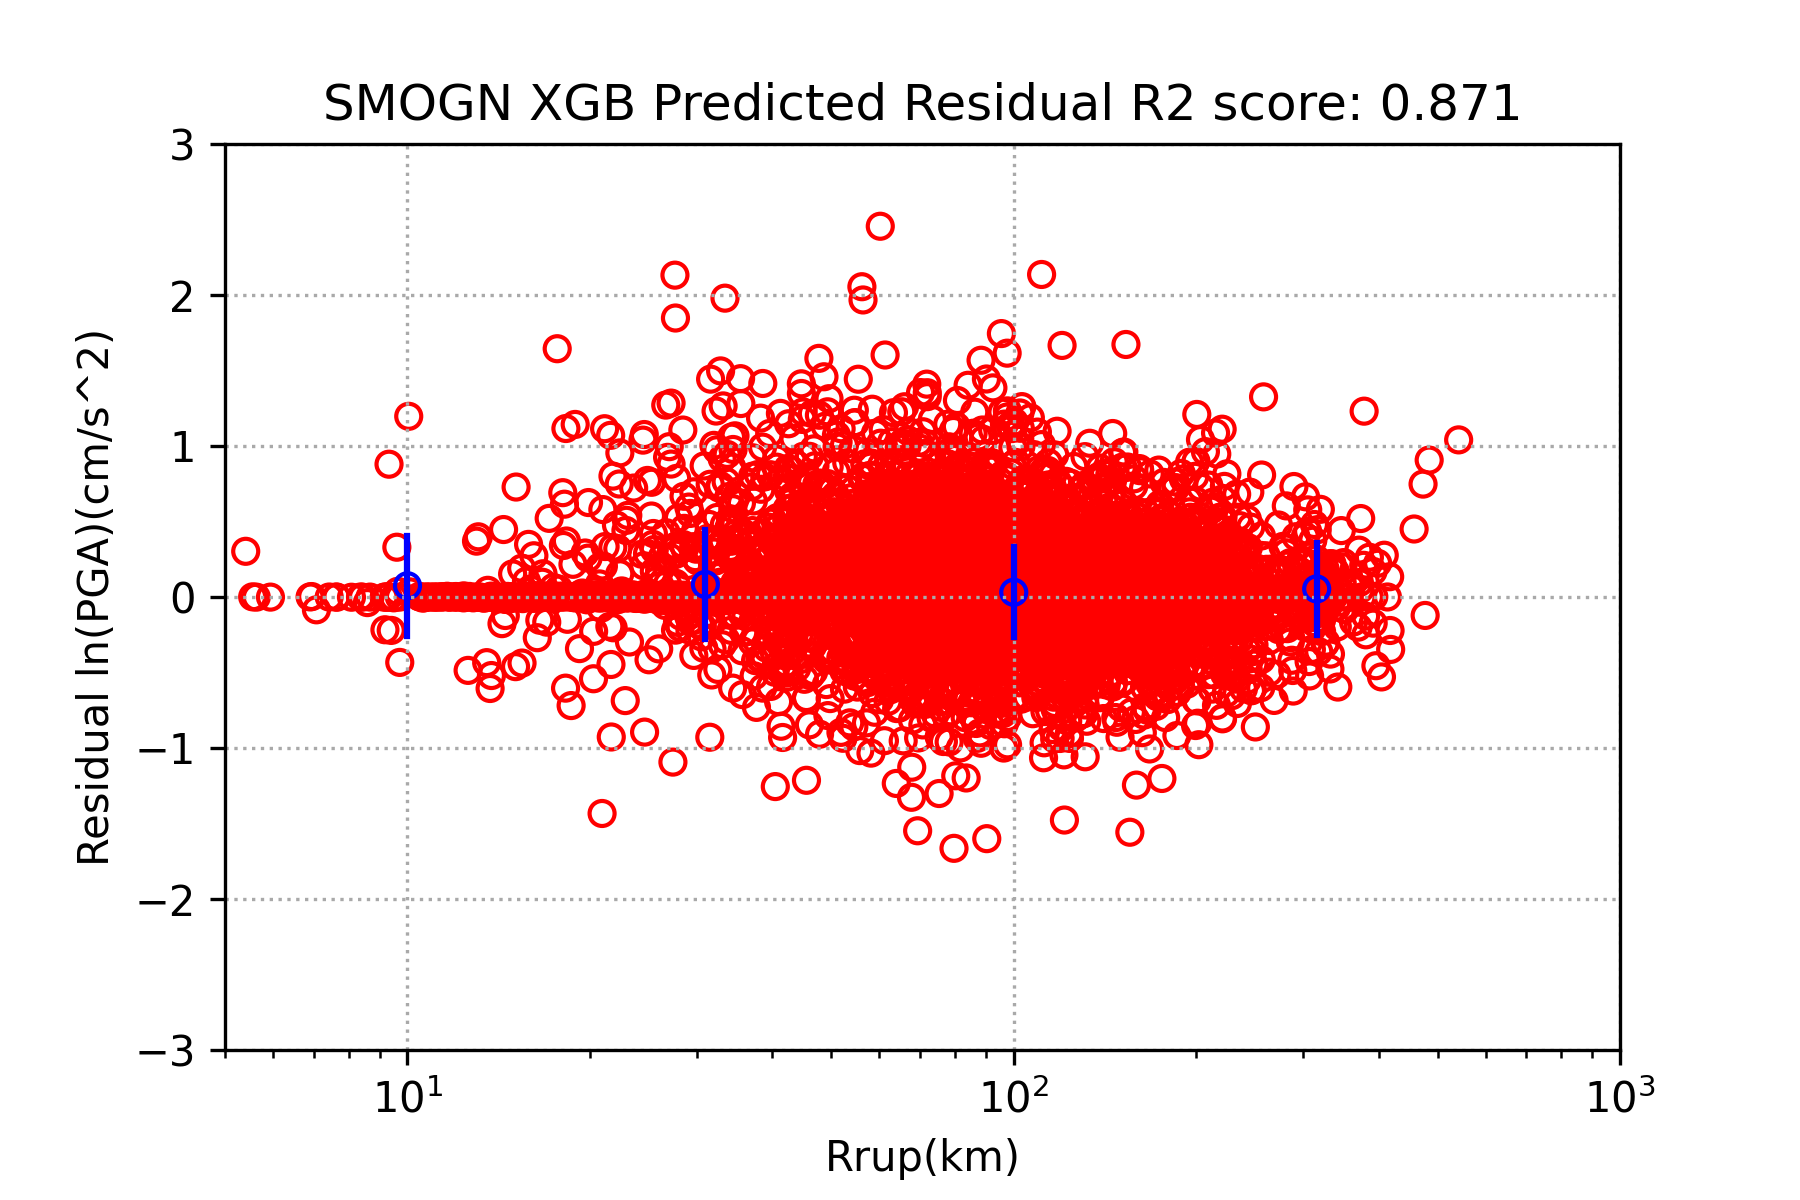
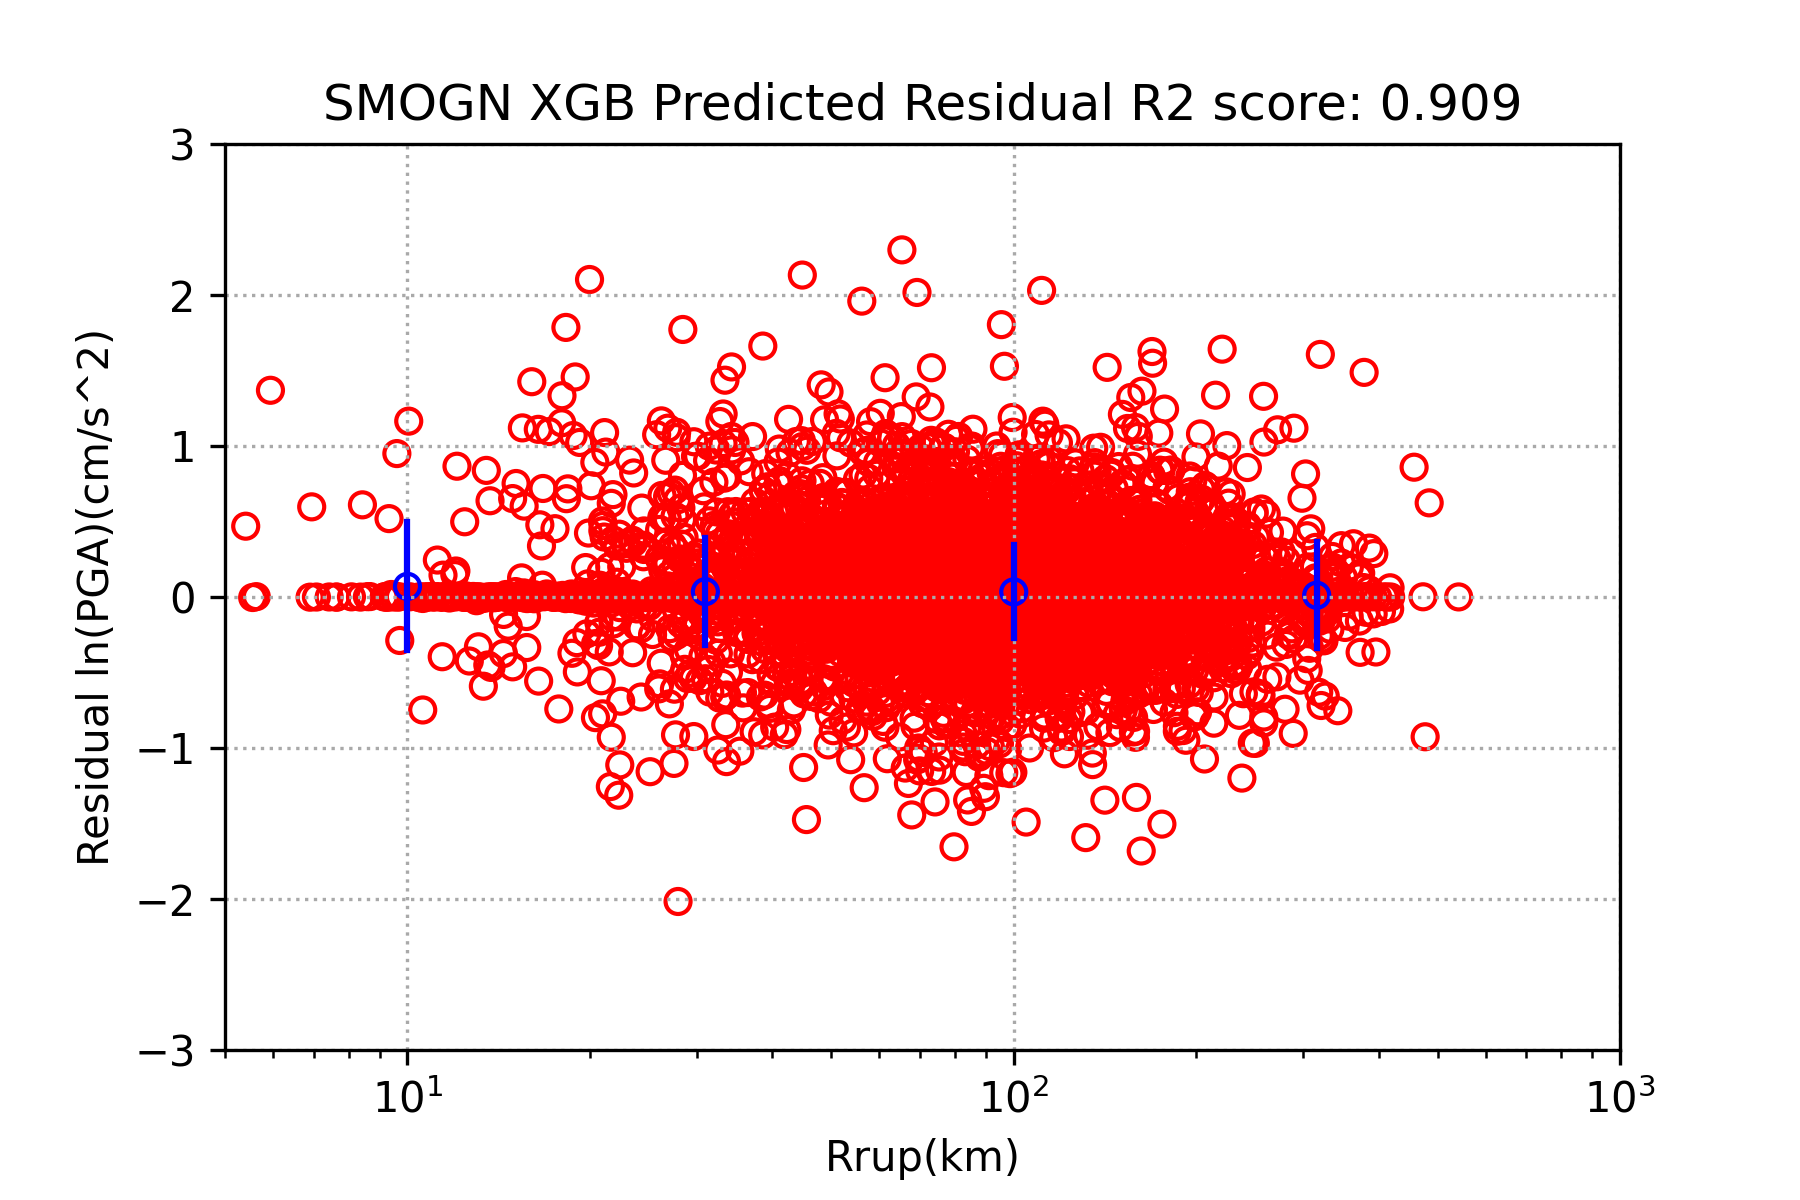
add smogn.py

diff --git a/machine_learning/design_pattern/process_train.py b/machine_learning/design_pattern/process_train.py
@@ -33,7 +33,8 @@ class dataprocess:
         data['fault.type'] = data['fault.type'].str.replace("NO", "2")
         data['fault.type'] = data['fault.type'].str.replace("SS", "3")
         data['fault.type'] = pd.to_numeric(data['fault.type'])
-        data['lnPGA(gal)'] = np.log(data['PGA'] * 980)
+        # data['lnPGA(gal)'] = np.log(data['PGA'] * 980)
+        data['lnPGV(gal)'] = np.log(data['PGV'] * 980)
         after_process_data = data
         return after_process_data
 
@@ -201,11 +202,11 @@ class dataprocess:
 
 
 if __name__ == '__main__':
-    TSMIP_smogn_df = pd.read_csv("../../../TSMIP_smogn_sta.csv")
-    TSMIP_df = pd.read_csv("../../../TSMIP_FF_copy.csv")
+    TSMIP_smogn_df = pd.read_csv("../../../TSMIP_smogn_PGV.csv")
+    TSMIP_df = pd.read_csv("../../../TSMIP_FF_PGV.csv")
     model = dataprocess()
     after_process_data = model.preprocess(TSMIP_df)
-    result_list = model.split_dataset(TSMIP_df, 'lnPGA(gal)', True,
+    result_list = model.split_dataset(TSMIP_df, 'lnPGV(gal)', True,
                                       'lnVs30', 'MW', 'lnRrup', 'fault.type',
                                       'STA_Lon_X', 'STA_Lat_Y')
     score, feature_importances, fit_time, final_predict = model.training(

diff --git a/machine_learning/XGB/XGB_TSMIP.py b/machine_learning/XGB/XGB_TSMIP.py
@@ -7,15 +7,15 @@ from design_pattern.process_train import dataprocess
 from design_pattern.plot_figure import plot_fig
 import pandas as pd
 
-TSMIP_smogn_df = pd.read_csv("../../../TSMIP_smogn_sta.csv")
-TSMIP_df = pd.read_csv("../../../TSMIP_FF_copy.csv")
+TSMIP_smogn_df = pd.read_csv("../../../TSMIP_smogn_PGV.csv")
+TSMIP_df = pd.read_csv("../../../TSMIP_FF_PGV.csv")
 model = dataprocess()
 after_process_SMOGN_data = model.preprocess(TSMIP_smogn_df)
 after_process_ori_data = model.preprocess(TSMIP_df)
-result_SMOGN = model.split_dataset(TSMIP_smogn_df, 'lnPGA(gal)', True, 'lnVs30',
+result_SMOGN = model.split_dataset(TSMIP_smogn_df, 'lnPGV(gal)', True, 'lnVs30',
                                   'MW', 'lnRrup', 'fault.type', 'STA_Lon_X',
                                   'STA_Lat_Y')
-result_ori = model.split_dataset(TSMIP_df, 'lnPGA(gal)', True, 'lnVs30',
+result_ori = model.split_dataset(TSMIP_df, 'lnPGV(gal)', True, 'lnVs30',
                                   'MW', 'lnRrup', 'fault.type', 'STA_Lon_X',
                                   'STA_Lat_Y')
 score, feature_importances, fit_time, final_predict = model.training(

diff --git a/machine_learning/SVR/SVR_TSMIP_smogn.py b/machine_learning/SVR/SVR_TSMIP_smogn.py
@@ -13,12 +13,14 @@ from sklearn.metrics import r2_score, mean_squared_error, make_scorer
 # TSMIP_df = pd.read_csv("../../../TSMIP_FF_copy.csv")
 
 
-## conduct smogn ##這步大概要兩個小時
+# ## conduct smogn ##這步大概要兩個小時
+# target = "PGV"
 # TSMIP_smogn = smogn.smoter(
 #     data = TSMIP_df,
-#     y = "PGA"
+#     y = target
 # )
-# TSMIP_smogn.to_csv("../../../TSMIP_smogn_sta.csv",index=False)
+# TSMIP_smogn.to_csv(f"../../../TSMIP_smogn_{target}.csv",index=False)
+
 def MSE(y_true, y_pred):
     mse = mean_squared_error(y_true, y_pred)
     print('MSE: %2.3f' % mse)

diff --git a/machine_learning/design_pattern/SMOGN.py b/machine_learning/design_pattern/SMOGN.py
@@ -1,0 +1,13 @@
+import smogn
+import pandas as pd
+
+## load data
+target = "Sa40"
+TSMIP_df = pd.read_csv(f"../../../TSMIP_FF_{target}.csv")
+
+## conduct smogn ##這步大概要兩個小時
+TSMIP_smogn = smogn.smoter(
+    data = TSMIP_df,
+    y = 'T4.000S'
+)
+TSMIP_smogn.to_csv(f"../../../TSMIP_smogn_{target}.csv",index=False)
